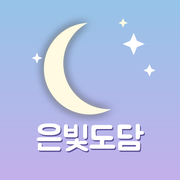
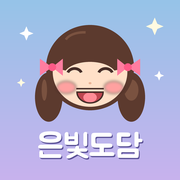
Add files via upload

diff --git a/index.html b/index.html
@@ -39,7 +39,7 @@
   }
   main{max-width:460px;margin:0 auto;padding:calc(env(safe-area-inset-top) + 42px) 20px 48px;display:flex;flex-direction:column;gap:26px}
   header{text-align:center;position:relative}
-  .moon{font-size:2.1rem;line-height:1;filter:drop-shadow(0 4px 8px rgba(255,214,102,.5))}
+  .logo{width:88px;height:88px;border-radius:26px;box-shadow:0 8px 20px rgba(110,100,180,.3)}
   h1{margin:8px 0 2px;font-family:var(--f-title);font-weight:400;font-size:2.5rem;letter-spacing:.04em;
      background:linear-gradient(90deg,#6b8fe0,#a07be0);-webkit-background-clip:text;background-clip:text;color:transparent}
   @media (prefers-color-scheme:dark){h1{background:linear-gradient(90deg,#9cc0ff,#d0a8ff);-webkit-background-clip:text;background-clip:text}}
@@ -60,7 +60,7 @@
 <body>
 <main>
   <header>
-    <div class="moon">🌙</div>
+    <img class="logo" src="icon-192.png" alt="">
     <h1>은빛도담어린이집</h1>
     <p class="sub">오늘도 도담도담 ✨</p>
   </header>
